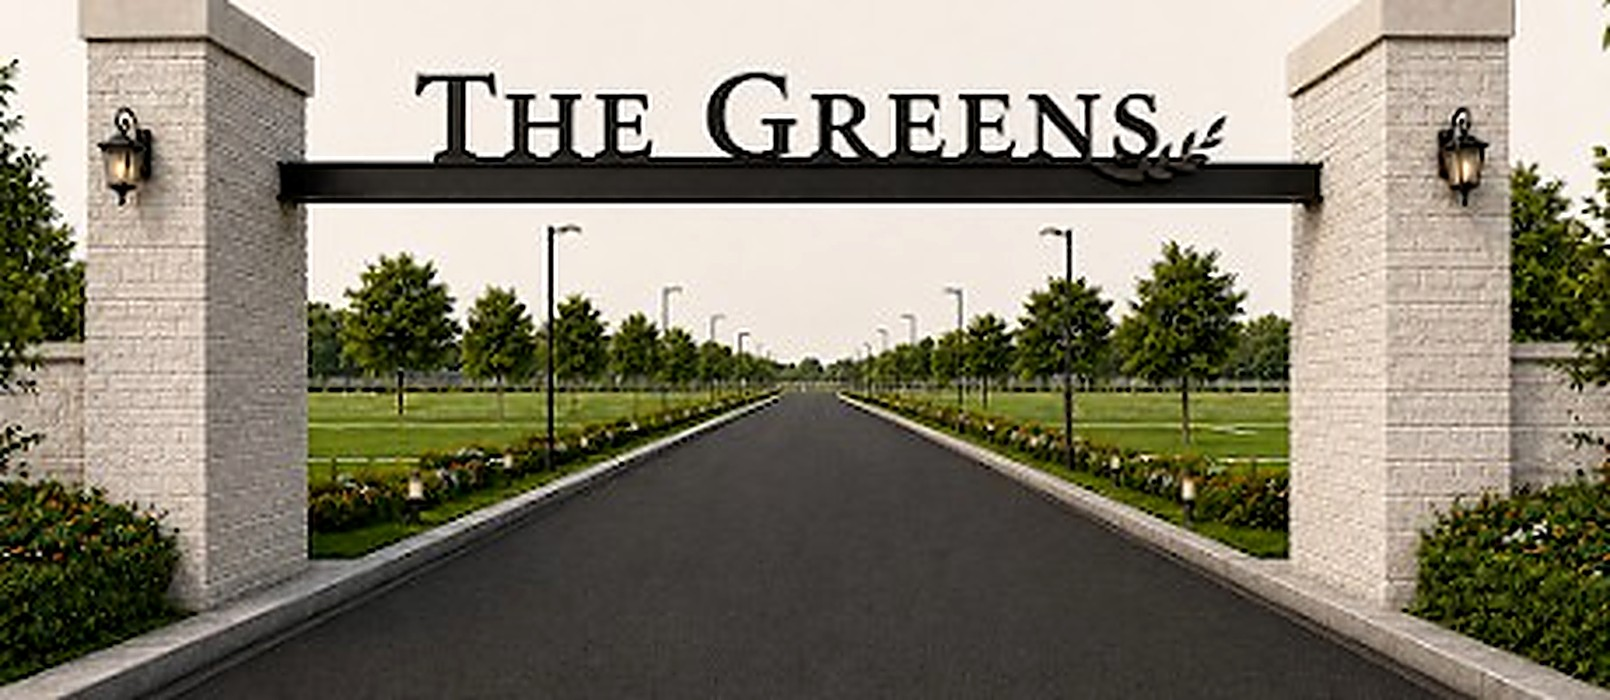
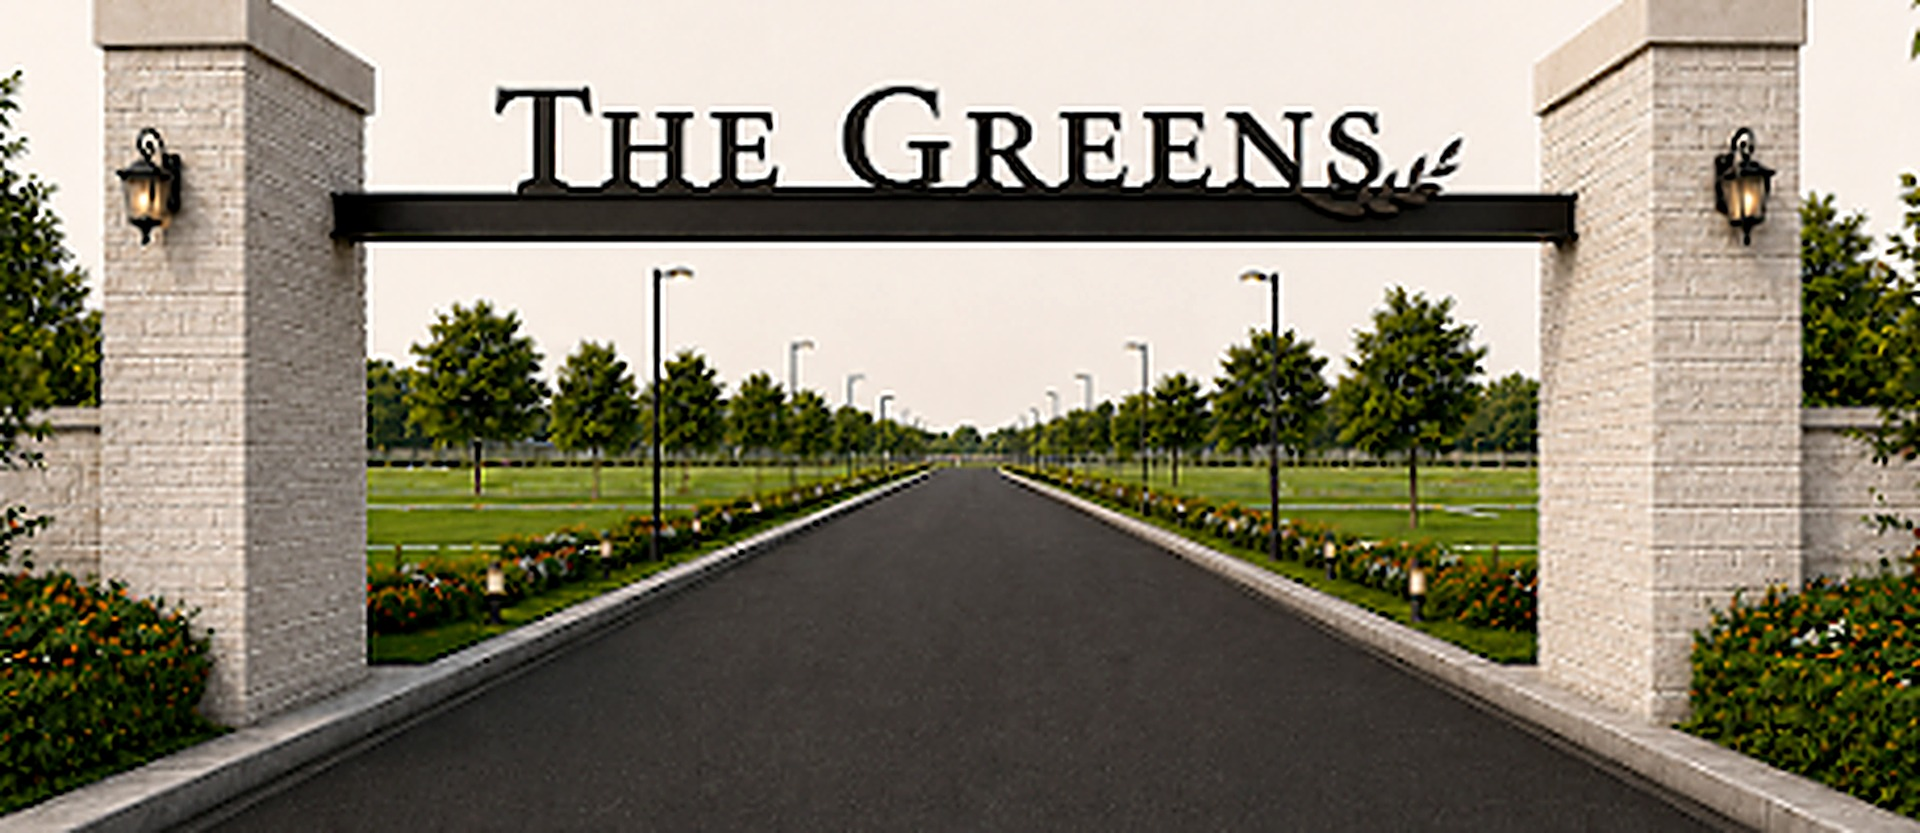
12px gap between project tiles; higher-quality staged upscale of Greens render

diff --git a/index.html b/index.html
@@ -10,7 +10,7 @@
 <link rel="preconnect" href="https://fonts.googleapis.com">
 <link rel="preconnect" href="https://fonts.gstatic.com" crossorigin>
 <link href="https://fonts.googleapis.com/css2?family=Fraunces:opsz,wght@9..144,400;9..144,500;9..144,600&family=Archivo:wght@400;500;600&display=swap" rel="stylesheet">
-<link rel="stylesheet" href="/assets/style.css?v=10">
+<link rel="stylesheet" href="/assets/style.css?v=11">
 <meta property="og:title" content="Epic Developers | Premium Plotted Developments & Farm Properties in Hyderabad">
 <meta property="og:description" content="Park Central at Dundigal, The Greens at Kadthal, Fortune Fields at Yacharam. Premium plots by Epic Developers, Hyderabad.">
 <meta property="og:image" content="https://www.epicdevelopers.in/assets/img/parkcentral-arch-front.jpg">

diff --git a/the-greens/index.html b/the-greens/index.html
@@ -10,7 +10,7 @@
 <link rel="preconnect" href="https://fonts.googleapis.com">
 <link rel="preconnect" href="https://fonts.gstatic.com" crossorigin>
 <link href="https://fonts.googleapis.com/css2?family=Fraunces:opsz,wght@9..144,300;9..144,400;9..144,500&family=Archivo:wght@400;500;600&display=swap" rel="stylesheet">
-<link rel="stylesheet" href="/assets/style.css?v=10">
+<link rel="stylesheet" href="/assets/style.css?v=11">
 <meta property="og:title" content="The Greens at Kadthal | Epic Developers">
 <meta property="og:description" content="Tomorrow's prime location, available at today's price — beside the 30,000-acre Bharat Future City. RERA & DTCP approved.">
 <meta property="og:image" content="https://www.epicdevelopers.in/assets/img/parkcentral-arch-front.jpg">

diff --git a/parkcentral/index.html b/parkcentral/index.html
@@ -10,7 +10,7 @@
 <link rel="preconnect" href="https://fonts.googleapis.com">
 <link rel="preconnect" href="https://fonts.gstatic.com" crossorigin>
 <link href="https://fonts.googleapis.com/css2?family=Fraunces:opsz,wght@9..144,400;9..144,500;9..144,600&family=Archivo:wght@400;500;600&display=swap" rel="stylesheet">
-<link rel="stylesheet" href="/assets/style.css?v=10">
+<link rel="stylesheet" href="/assets/style.css?v=11">
 <meta property="og:title" content="Park Central at Dundigal | Epic Developers">
 <meta property="og:description" content="HMDA final layout permit received. 77 premium villa plots from ₹38,000/sq.yd at Dundigal, Hyderabad.">
 <meta property="og:image" content="https://www.epicdevelopers.in/assets/img/parkcentral-arch-front.jpg">

diff --git a/contact-us/index.html b/contact-us/index.html
@@ -10,7 +10,7 @@
 <link rel="preconnect" href="https://fonts.googleapis.com">
 <link rel="preconnect" href="https://fonts.gstatic.com" crossorigin>
 <link href="https://fonts.googleapis.com/css2?family=Fraunces:opsz,wght@9..144,400;9..144,500;9..144,600&family=Archivo:wght@400;500;600&display=swap" rel="stylesheet">
-<link rel="stylesheet" href="/assets/style.css?v=10">
+<link rel="stylesheet" href="/assets/style.css?v=11">
 <meta property="og:title" content="Contact Epic Developers | 9177 681 133">
 <meta property="og:description" content="Call or WhatsApp 9177 681 133. Property advisors available 9 AM – 7 PM IST, Monday to Saturday.">
 <meta property="og:image" content="https://www.epicdevelopers.in/assets/img/parkcentral-arch-front.jpg">

diff --git a/dreamacres/index.html b/dreamacres/index.html
@@ -10,7 +10,7 @@
 <link rel="preconnect" href="https://fonts.googleapis.com">
 <link rel="preconnect" href="https://fonts.gstatic.com" crossorigin>
 <link href="https://fonts.googleapis.com/css2?family=Fraunces:opsz,wght@9..144,400;9..144,500;9..144,600&family=Archivo:wght@400;500;600&display=swap" rel="stylesheet">
-<link rel="stylesheet" href="/assets/style.css?v=10">
+<link rel="stylesheet" href="/assets/style.css?v=11">
 <meta property="og:title" content="Dream Acres at Dasarlapally | Epic Developers">
 <meta property="og:description" content="Six half-acre farm properties — delivered and sold out.">
 <meta property="og:image" content="https://www.epicdevelopers.in/assets/img/parkcentral-arch-front.jpg">

diff --git a/edengardens/index.html b/edengardens/index.html
@@ -10,7 +10,7 @@
 <link rel="preconnect" href="https://fonts.googleapis.com">
 <link rel="preconnect" href="https://fonts.gstatic.com" crossorigin>
 <link href="https://fonts.googleapis.com/css2?family=Fraunces:opsz,wght@9..144,400;9..144,500;9..144,600&family=Archivo:wght@400;500;600&display=swap" rel="stylesheet">
-<link rel="stylesheet" href="/assets/style.css?v=10">
+<link rel="stylesheet" href="/assets/style.css?v=11">
 <meta property="og:title" content="Eden Gardens at Mokila | Epic Developers">
 <meta property="og:description" content="153 HMDA-approved villa plots — delivered and sold out.">
 <meta property="og:image" content="https://www.epicdevelopers.in/assets/img/parkcentral-arch-front.jpg">

diff --git a/assets/style.css b/assets/style.css
@@ -163,8 +163,8 @@ section.flush { padding: 24px 0; background: var(--paper); }
 .section-head .survey { margin-top: 22px; }
 
 /* ---------- full-bleed project tiles ---------- */
-.tiles { display: grid; gap: 0; }
-.tiles .tile + .tile { border-top: 1px solid var(--champagne); }
+.tiles { display: grid; gap: 12px; background: var(--paper); }
+.tiles .tile + .tile { border-top: none; }
 .tile {
   position: relative; display: block; text-decoration: none; color: #fff;
   min-height: 72vh; overflow: hidden; isolation: isolate;
